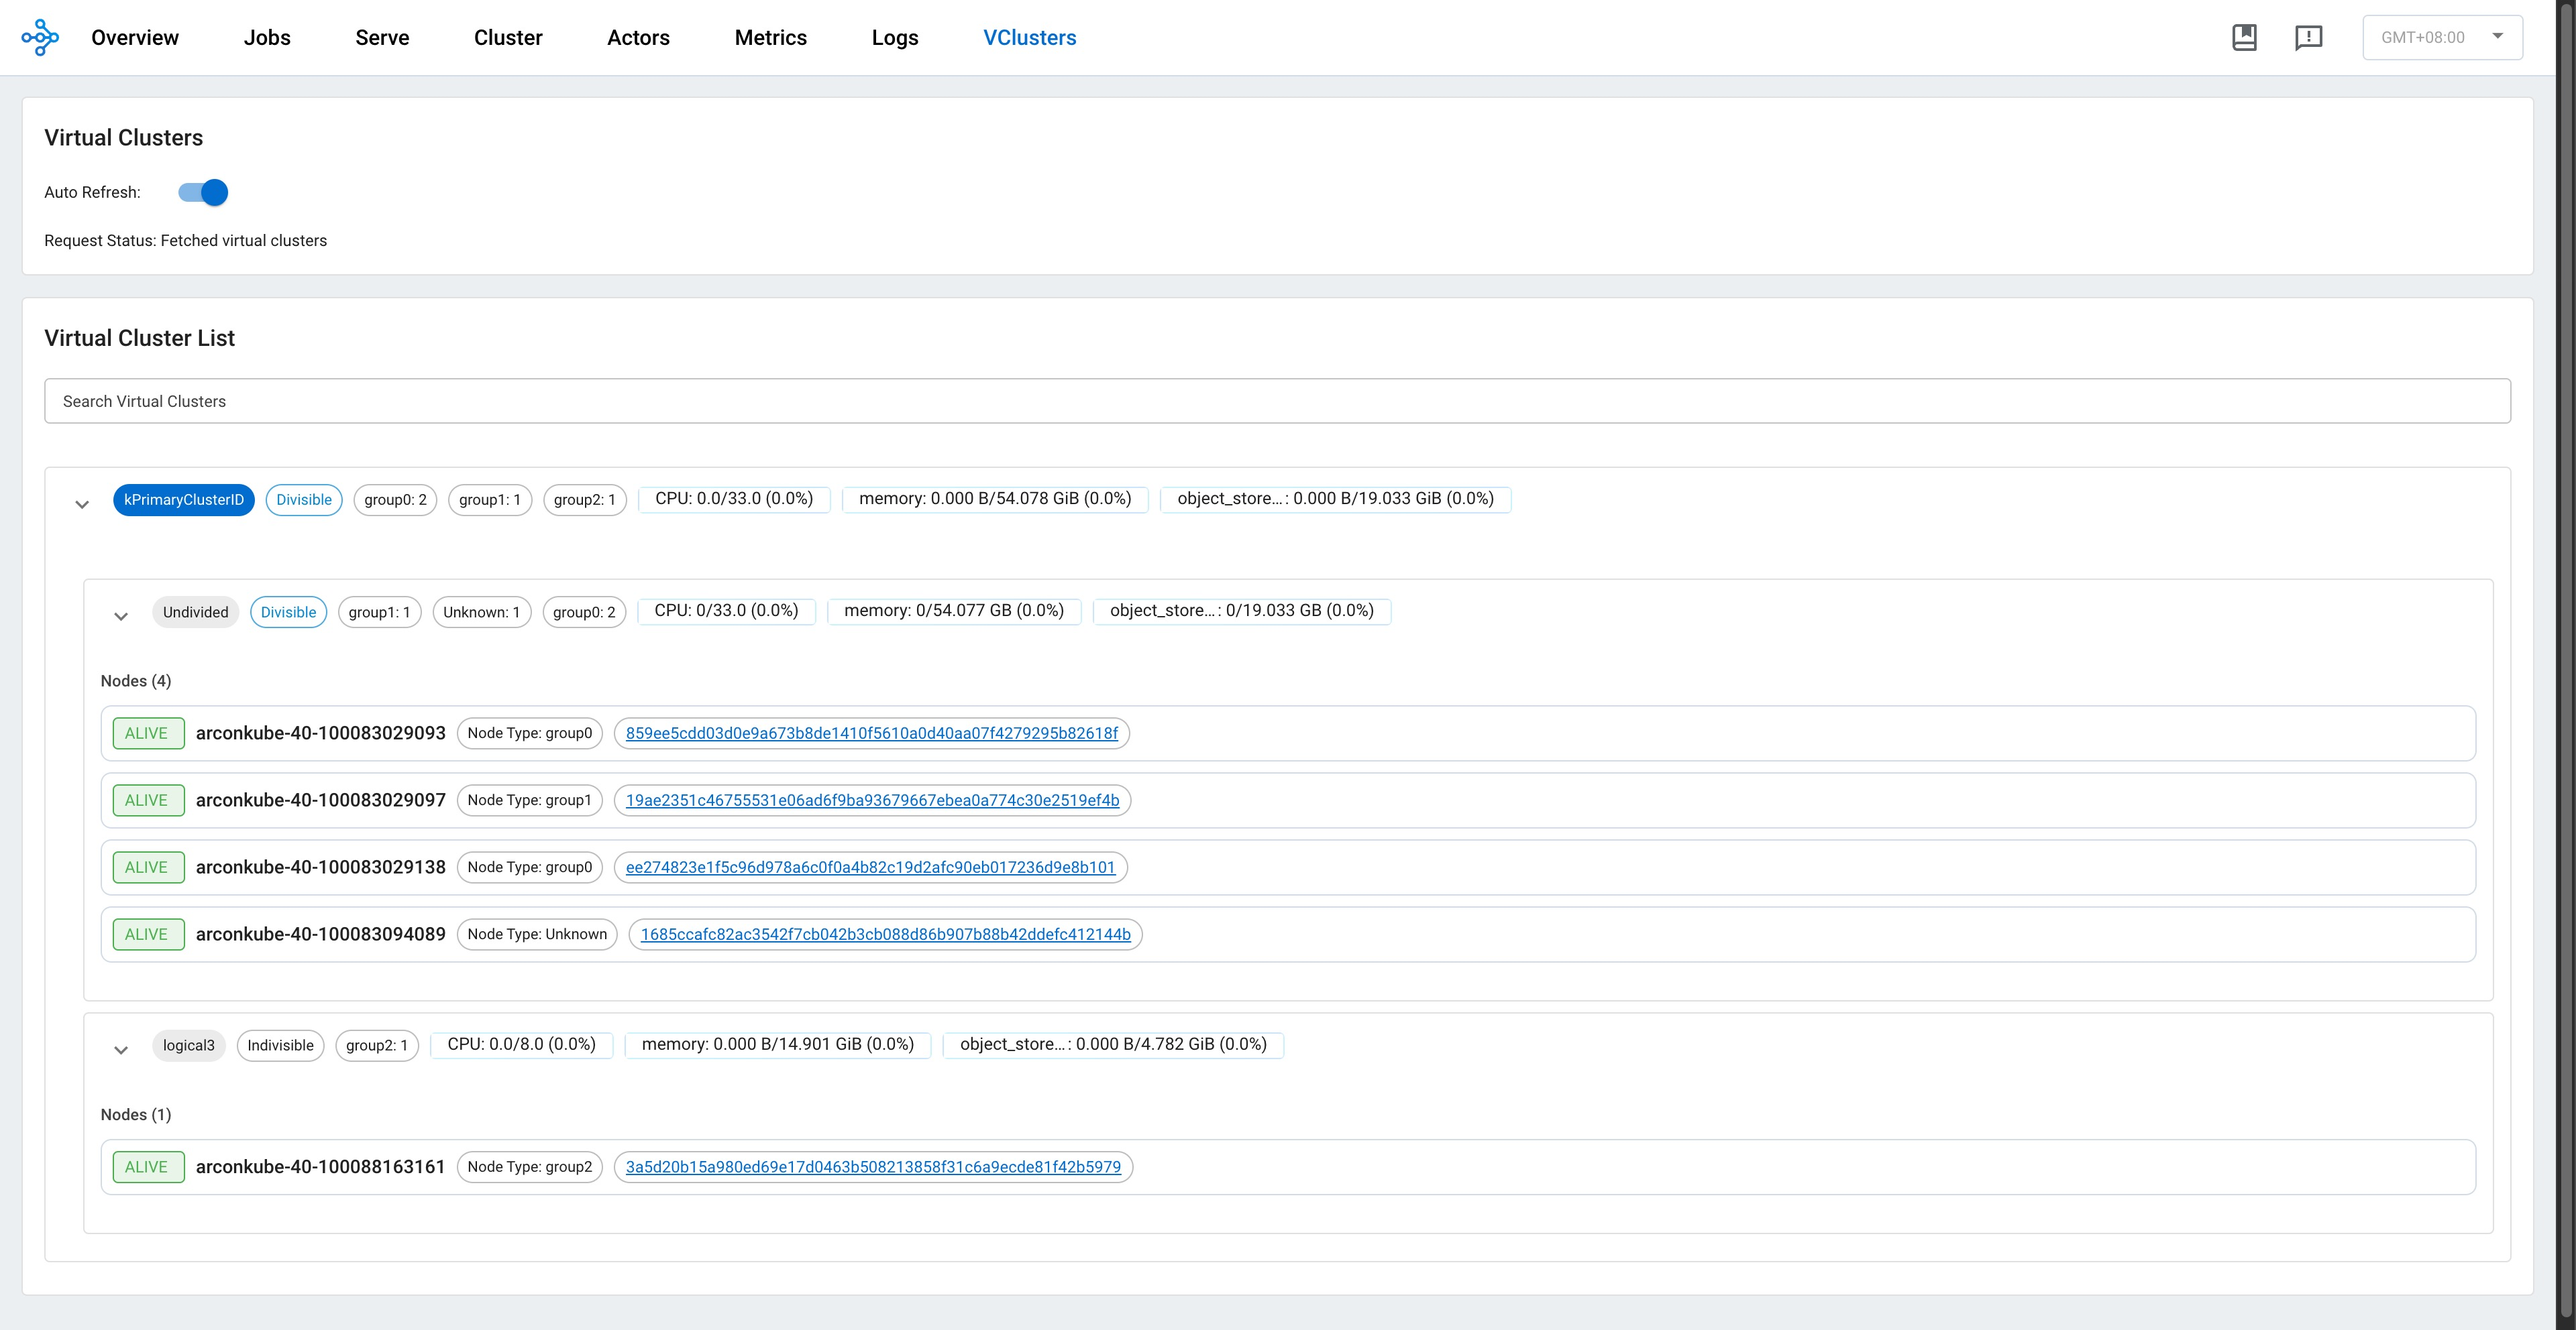
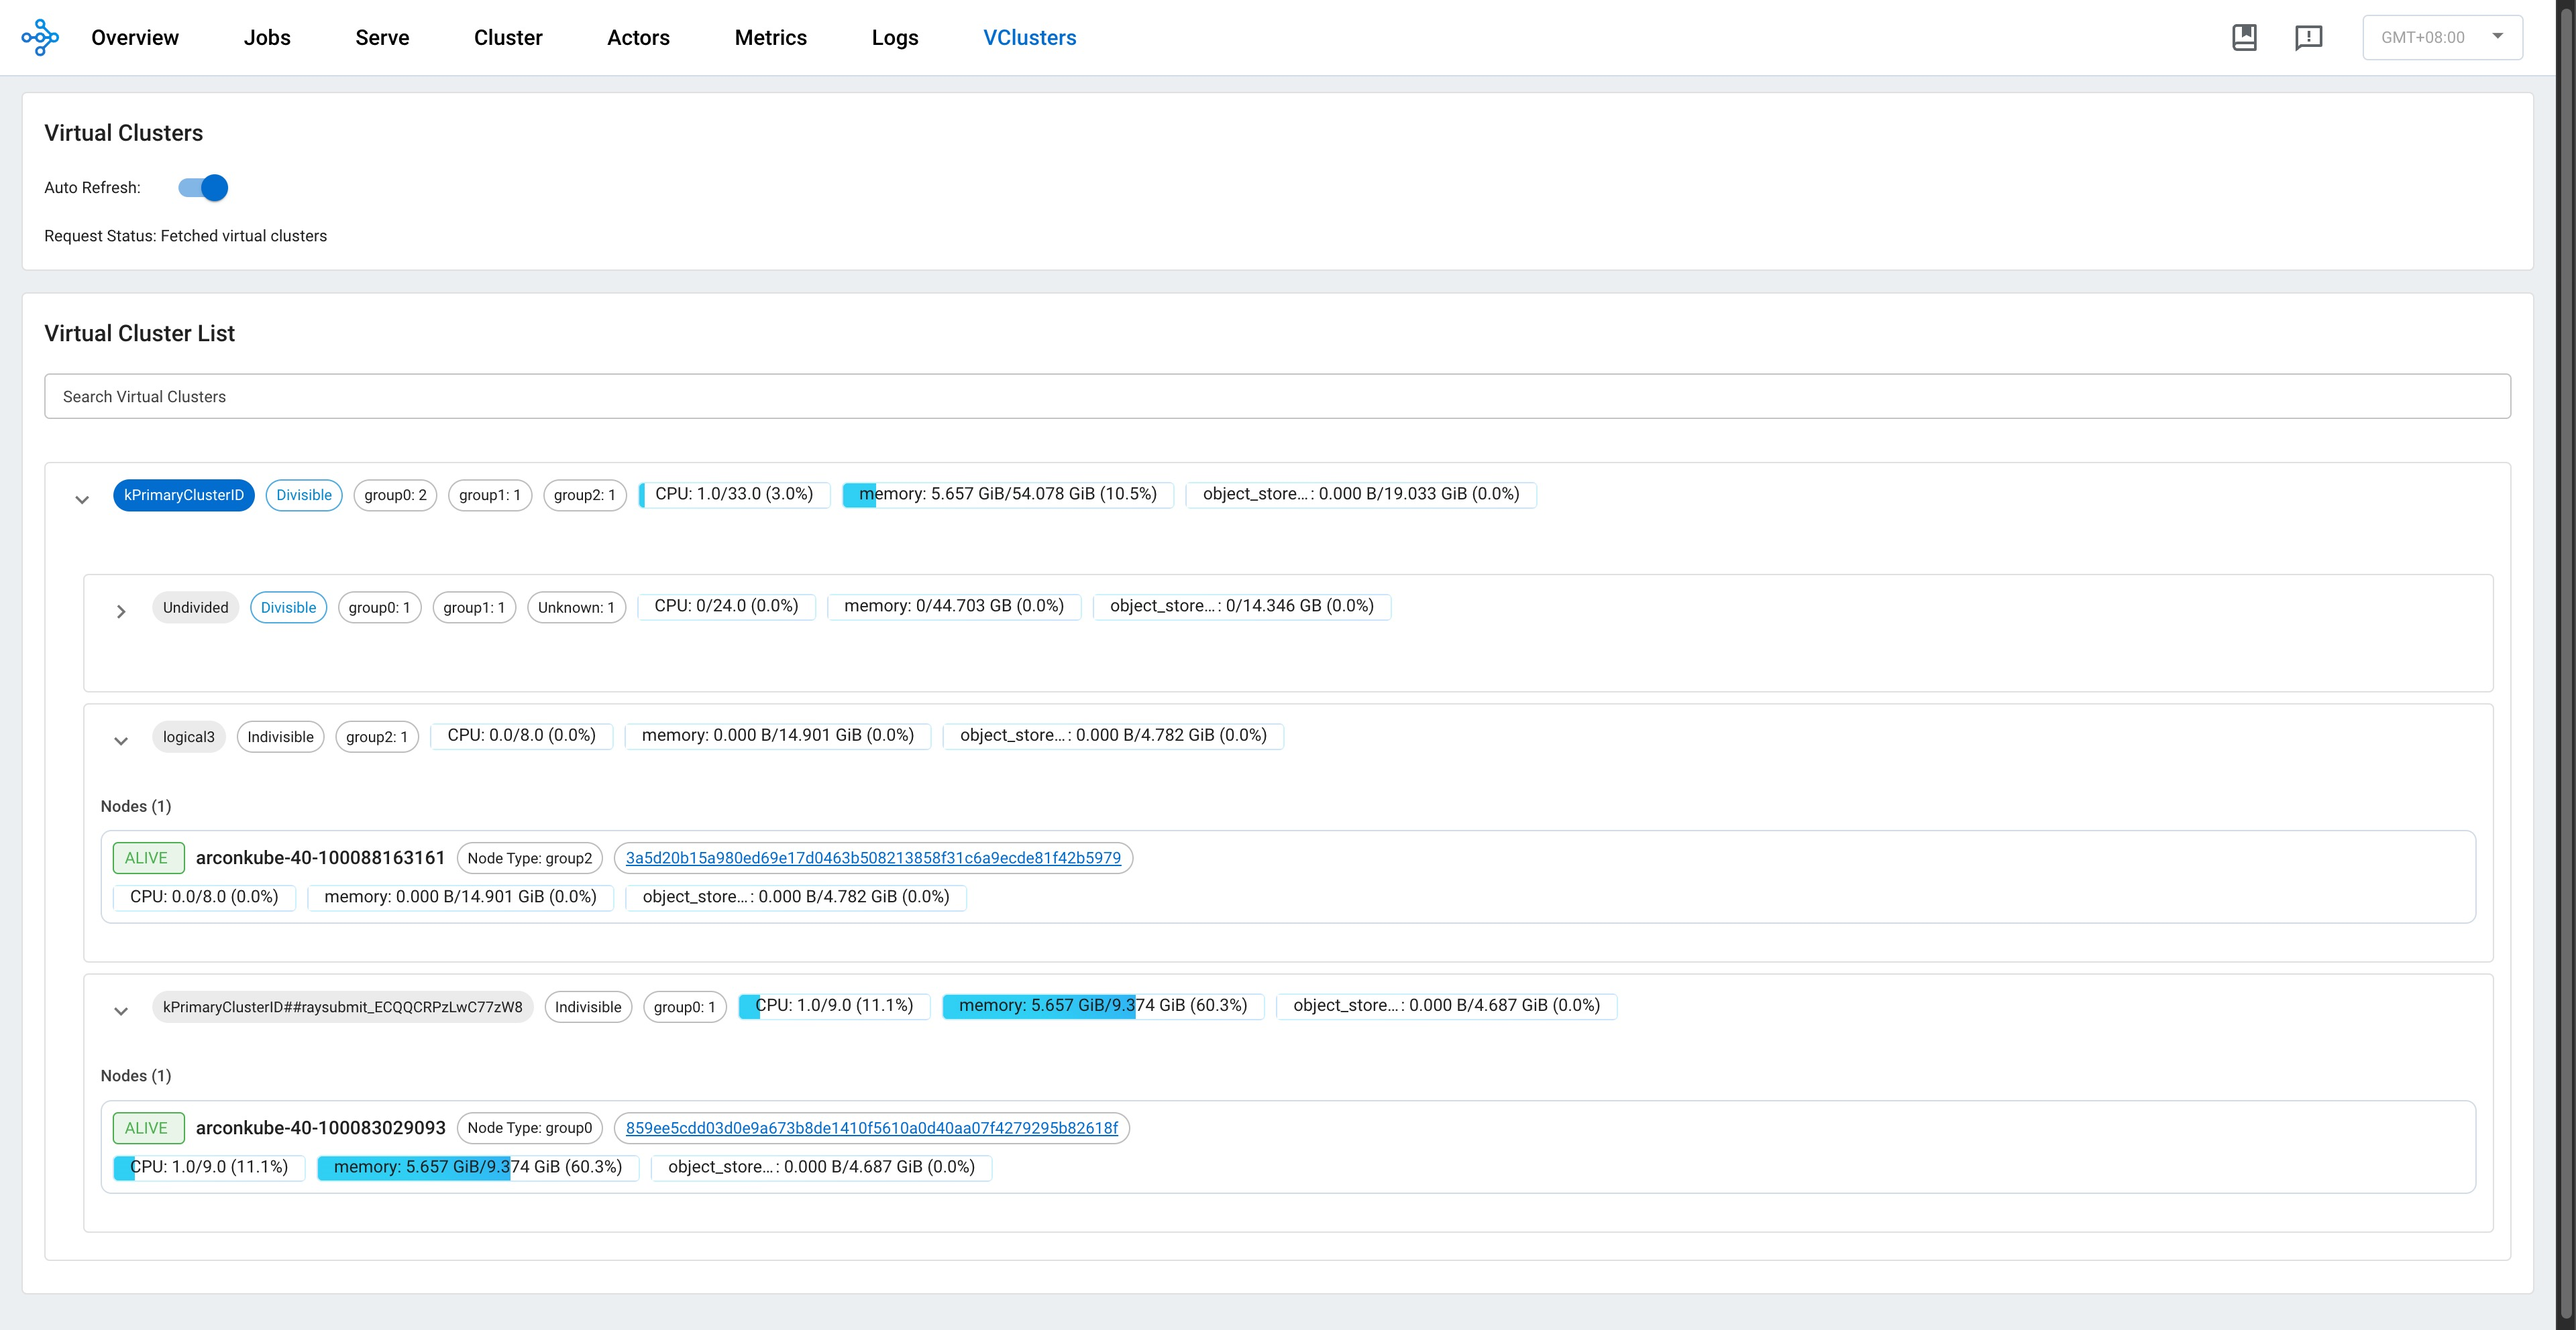
[VirtualCluster] Add resource overview for nodes in virtual cluster page (#497)

diff --git a/python/ray/dashboard/client/src/pages/virtual_cluster/VirtualClusters.tsx b/python/ray/dashboard/client/src/pages/virtual_cluster/VirtualClusters.tsx
@@ -233,12 +233,49 @@ const ResourceOverview = ({ cluster }: { cluster: VirtualClusterTreeNode }) => {
         >
           <ResourceUsage
             resourceName={resourceName}
-            usageStr={usageStr || "0/0"}
+            usageStr={typeof usageStr === "string" ? usageStr : "0/0"}
           />
         </Box>
       ))}
     </Box>
   );
+};
+
+const NodeResourceOverview = ({ node }: { node: any }) => {
+  const resourceOrder = ["CPU", "memory", "object_store_memory"];
+  const usageEntries = Object.entries(node.resources_usage || {}).sort(
+    ([a], [b]) => {
+      const indexA = resourceOrder.indexOf(a);
+      const indexB = resourceOrder.indexOf(b);
+      if (indexA !== -1 && indexB !== -1) {
+        return indexA - indexB;
+      }
+      if (indexA !== -1) {
+        return -1;
+      }
+      if (indexB !== -1) {
+        return 1;
+      }
+      return a.localeCompare(b);
+    },
+  );
+  return usageEntries.length ? (
+    <Box
+      sx={{ display: "flex", flexWrap: "wrap", gap: 1, alignItems: "center" }}
+    >
+      {usageEntries.map(([resourceName, usageStr]) => (
+        <Box
+          key={resourceName}
+          sx={{ display: "flex", alignItems: "center", gap: 0.5 }}
+        >
+          <ResourceUsage
+            resourceName={resourceName}
+            usageStr={typeof usageStr === "string" ? usageStr : "0/0"}
+          />
+        </Box>
+      ))}
+    </Box>
+  ) : null;
 };
 
 const ClusterTreeNode = ({
@@ -309,14 +346,16 @@ const ClusterTreeNode = ({
                 size="small"
                 color={cluster.divisible ? "info" : "default"}
               />
-              {Object.entries(cluster.replicaSets || {}).map(([key, value]) => (
-                <Chip
-                  key={key}
-                  label={`${key}: ${value}`}
-                  variant="outlined"
-                  size="small"
-                />
-              ))}
+              {Object.entries(cluster.replicaSets || {})
+                .sort(([aKey], [bKey]) => aKey.localeCompare(bKey))
+                .map(([key, value]) => (
+                  <Chip
+                    key={key}
+                    label={`${key}: ${value}`}
+                    variant="outlined"
+                    size="small"
+                  />
+                ))}
               <ResourceOverview cluster={cluster} />
             </Box>
           </Box>
@@ -388,6 +427,9 @@ const ClusterTreeNode = ({
                               },
                             }}
                           />
+                        </Box>
+                        <Box sx={{ mt: 1 }}>
+                          <NodeResourceOverview node={node} />
                         </Box>
                       </Paper>
                     </Grid>
